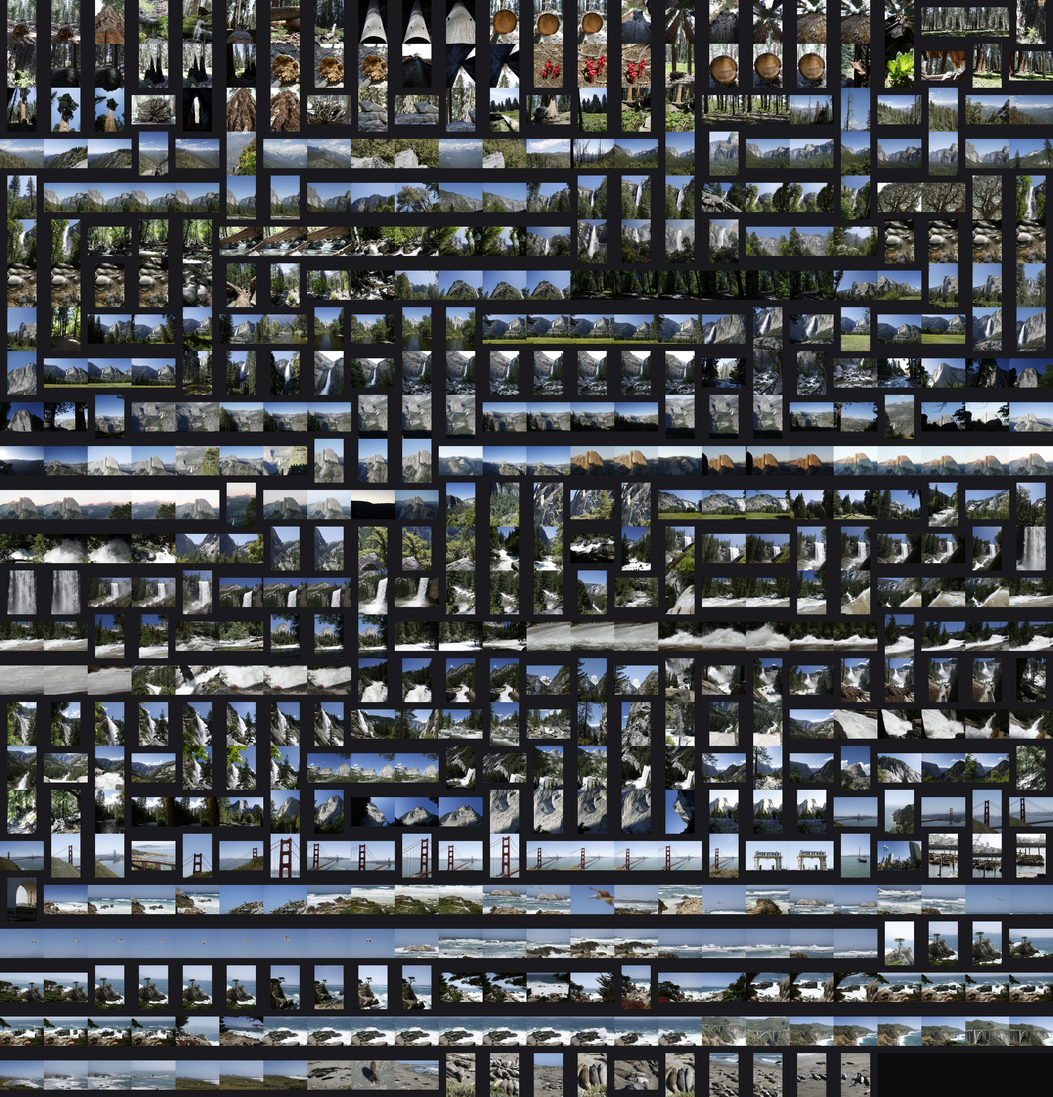
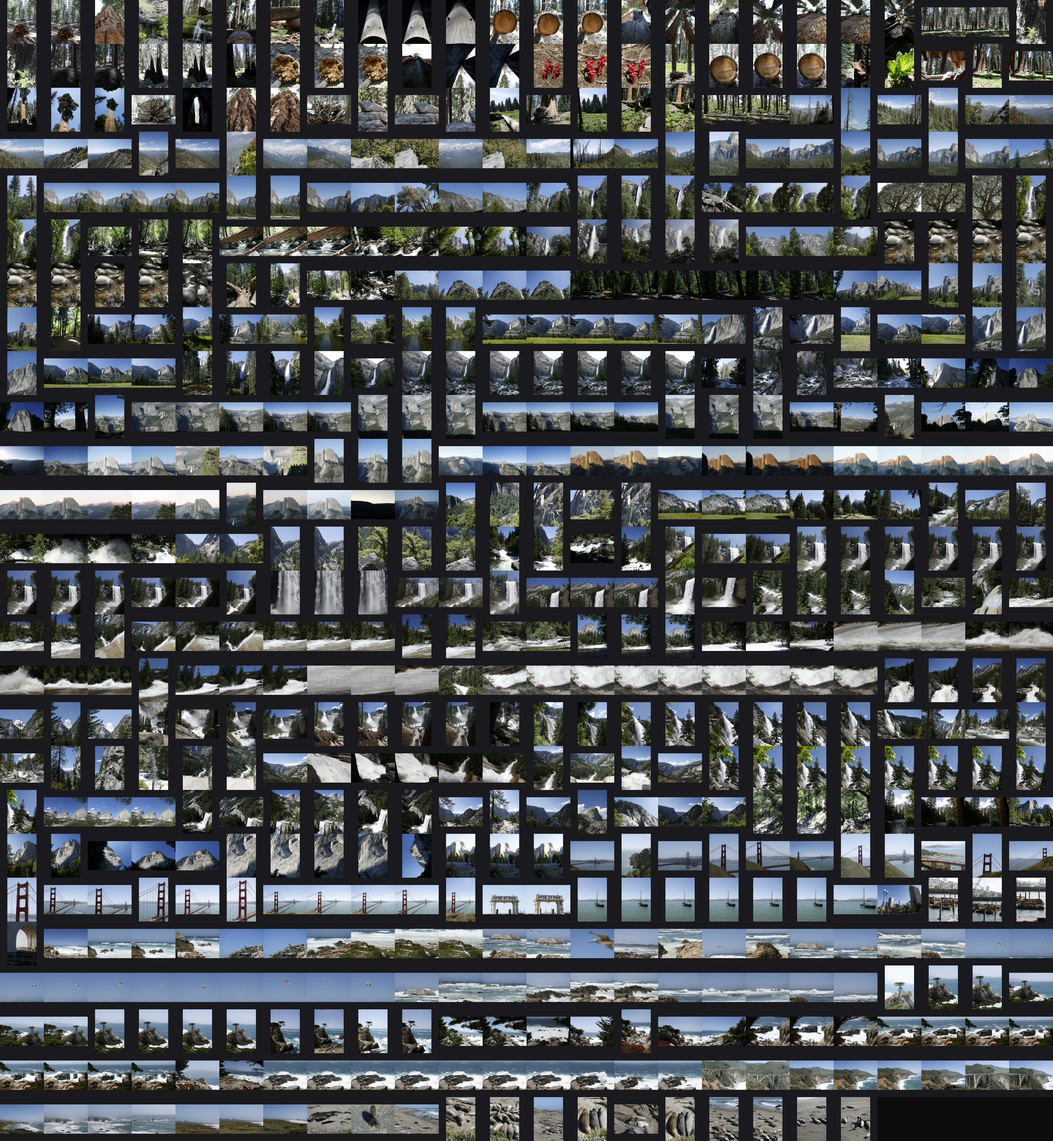
hero: bursts spread down the wall
Four rapid runs from the Mist Trail and San Francisco days (shot single-shot, so the
strict drive-mode rule left them out) are boxed as bursts, the way the app boxes a run
without a drive mode; 620 frames, eight bursts across the sequence.

Claude-Session: https://claude.ai/code/session_019pBmJhyqaQDw9pRmXDLwX9

diff --git a/docs/index.html b/docs/index.html
@@ -8,8 +8,8 @@
 <!-- Not released: removed on launch day. -->
 <meta name="robots" content="noindex">
 <link rel="icon" href="./assets/icon-64.png">
-<link rel="stylesheet" href="./assets/site.css?v=fab6df1256">
-<link rel="stylesheet" href="./assets/pages.css?v=95f49a334f">
+<link rel="stylesheet" href="./assets/site.css?v=56a1be6058">
+<link rel="stylesheet" href="./assets/pages.css?v=bed821447e">
 <link rel="preload" as="image" href="./assets/site/sheet-desk.jpg" media="(min-width: 761px)">
 <link rel="preload" as="image" href="./assets/site/sheet-phone.jpg" media="(max-width: 760px)">
 </head>
@@ -18,7 +18,7 @@
 <main id="top">
 <section class="cull" id="cull" aria-label="A week in California, culled">
   <div class="stage" id="stage">
-    <div class="sheet" id="sheet" data-cols="24" data-rows="25" aria-hidden="true"></div>
+    <div class="sheet" id="sheet" data-cols="24" data-rows="26" aria-hidden="true"></div>
     <div class="counter glass" id="counter"><span><b id="pos">5,259</b><span id="posw"> frames</span></span><span class="keeps" id="kc" hidden><b id="keeps">0</b> keeps</span><span class="favs" id="fc" hidden><b id="favs">0</b> favorites</span></div>
     <div class="invite" id="invite"><div class="line">A week in California, <em>culled in one evening.</em></div><div class="k glass"><span class="wheel"></span>Scroll to cull</div></div>
     <div class="photo" id="photo"><img src="./assets/photos/hero-1200.jpg" srcset="./assets/photos/hero-1200.jpg 1200w, ./assets/photos/hero-2400.jpg 2400w" sizes="(max-width: 760px) 200vw, 1200px" width="1200" height="800" alt="Half Dome at sunset from Glacier Point, the favorite of the shoot"></div>
@@ -81,12 +81,12 @@
   <p class="fine">Windows and Mac · one license, two computers · prices in US dollars</p>
 </div></section>
 
-<script id="seq" type="application/json">[{"n":10,"v":"r","p":7},{"n":12,"v":"r","p":9},{"n":60,"v":"r","p":57},{"n":91,"v":"r","p":88},{"n":111,"v":"k","p":108},{"n":122,"v":"k","p":119},{"n":135,"v":"k","p":132},{"n":155,"v":"k","p":152},{"n":212,"v":"k","p":209},{"n":214,"v":"r","p":211},{"n":216,"v":"r","p":213},{"n":227,"v":"r","p":224},{"n":229,"v":"r","p":226},{"n":231,"v":"r","p":228},{"n":269,"v":"r","p":266},{"n":271,"v":"k","p":268},{"n":273,"v":"r","p":270},{"n":279,"v":"r","p":276},{"n":285,"v":"r","p":282},{"n":287,"v":"r","p":284},{"n":289,"v":"r","p":286},{"n":358,"v":"r","p":355},{"n":362,"v":"r","p":359},{"n":593,"v":"r","p":590},{"n":597,"v":"r","p":594},{"n":617,"v":"r","p":614},{"n":621,"v":"k","p":618},{"n":636,"v":"r","p":633},{"n":639,"v":"k","p":636},{"n":641,"v":"r","p":638},{"n":671,"v":"k","p":668},{"n":673,"v":"r","p":670},{"n":675,"v":"r","p":672},{"n":731,"v":"k","p":728},{"n":752,"v":"k","p":749},{"n":755,"v":"r","p":752},{"n":773,"v":"r","p":770},{"n":777,"v":"r","p":774},{"n":780,"v":"r","p":777},{"n":786,"v":"r","p":783},{"n":790,"v":"k","p":787},{"n":792,"v":"r","p":789},{"n":794,"v":"r","p":791},{"n":809,"v":"r","p":806},{"n":813,"v":"r","p":810},{"n":821,"v":"k","p":818},{"n":841,"v":"r","p":838},{"n":843,"v":"r","p":840},{"n":845,"v":"r","p":842},{"n":849,"v":"k","p":846},{"n":851,"v":"r","p":848},{"n":853,"v":"r","p":850},{"n":857,"v":"k","p":854},{"n":861,"v":"r","p":858},{"n":863,"v":"k","p":860},{"n":868,"v":"r","p":865},{"n":872,"v":"r","p":869},{"n":876,"v":"r","p":873},{"n":891,"v":"r","p":888},{"n":911,"v":"r","p":908},{"n":916,"v":"r","p":913},{"n":924,"v":"r","p":921},{"n":930,"v":"r","p":927},{"n":934,"v":"r","p":931},{"n":942,"v":"r","p":939},{"n":948,"v":"r","p":945},{"n":957,"v":"r","p":954},{"n":960,"v":"r","p":957},{"n":962,"v":"r","p":959},{"n":970,"v":"r","p":967},{"n":974,"v":"r","p":971},{"n":980,"v":"r","p":977},{"n":988,"v":"k","p":985},{"n":996,"v":"r","p":993},{"n":1003,"v":"k","p":1000},{"n":1009,"v":"r","p":1006},{"n":1015,"v":"r","p":1012},{"n":1021,"v":"r","p":1018},{"n":1030,"v":"k","p":1027},{"n":1039,"v":"r","p":1036},{"n":1045,"v":"r","p":1042},{"n":1051,"v":"r","p":1048},{"n":1054,"v":"k","p":1051},{"n":1059,"v":"r","p":1056},{"n":1064,"v":"k","p":1061},{"n":1069,"v":"r","p":1066},{"n":1074,"v":"r","p":1071},{"n":1078,"v":"r","p":1075},{"n":1086,"v":"k","p":1083},{"n":1088,"v":"r","p":1085},{"n":1096,"v":"r","p":1093},{"n":1104,"v":"k","p":1101},{"n":1116,"v":"r","p":1113},{"n":1122,"v":"r","p":1119},{"n":1135,"v":"r","p":1132},{"n":1142,"v":"r","p":1139},{"n":1144,"v":"r","p":1141},{"n":1147,"v":"r","p":1144},{"n":1149,"v":"k","p":1146},{"n":1150,"v":"f","p":1147},{"n":1159,"v":"r","p":1156},{"n":1165,"v":"r","p":1162},{"n":1172,"v":"k","p":1169},{"n":1179,"v":"r","p":1176},{"n":1185,"v":"r","p":1182},{"n":1192,"v":"k","p":1189},{"n":1196,"v":"r","p":1193},{"n":1200,"v":"r","p":1197},{"n":1211,"v":"r","p":1208},{"n":1217,"v":"r","p":1214},{"n":1223,"v":"r","p":1220},{"n":1229,"v":"k","p":1226},{"n":1235,"v":"r","p":1232},{"n":1247,"v":"k","p":1244},{"n":1251,"v":"r","p":1248},{"n":1255,"v":"r","p":1252},{"n":1257,"v":"r","p":1254},{"n":1259,"v":"r","p":1256},{"n":1261,"v":"r","p":1258},{"n":1264,"v":"r","p":1261},{"n":1269,"v":"r","p":1266},{"n":1274,"v":"r","p":1271},{"n":1281,"v":"r","p":1278},{"n":1287,"v":"r","p":1284},{"n":1293,"v":"k","p":1290},{"n":1300,"v":"r","p":1297},{"n":1308,"v":"r","p":1305},{"n":1316,"v":"r","p":1313},{"n":1330,"v":"r","p":1327},{"n":1333,"v":"r","p":1330},{"n":1337,"v":"r","p":1334},{"n":1339,"v":"r","p":1336},{"n":1342,"v":"r","p":1339},{"n":1346,"v":"r","p":1343},{"n":1355,"v":"k","p":1352},{"n":1363,"v":"r","p":1360},{"n":1371,"v":"r","p":1368},{"n":1377,"v":"k","p":1374},{"n":1382,"v":"r","p":1379},{"n":1387,"v":"r","p":1384},{"n":1425,"v":"r","p":1422},{"n":1426,"v":"r","p":1423},{"n":1427,"v":"r","p":1424},{"n":1428,"v":"r","p":1425},{"n":1429,"v":"r","p":1426},{"n":1430,"v":"r","p":1427},{"n":1431,"v":"r","p":1428},{"n":1432,"v":"k","p":1429},{"n":1435,"v":"r","p":1432},{"n":1447,"v":"r","p":1444},{"n":1452,"v":"r","p":1449},{"n":1457,"v":"k","p":1454},{"n":1465,"v":"k","p":1462},{"n":1472,"v":"r","p":1469},{"n":1475,"v":"r","p":1472},{"n":1478,"v":"r","p":1475},{"n":1480,"v":"r","p":1477},{"n":1482,"v":"r","p":1479},{"n":1483,"v":"r","p":1480},{"n":1484,"v":"r","p":1481},{"n":1485,"v":"r","p":1482},{"n":1486,"v":"r","p":1483},{"n":1487,"v":"k","p":1484},{"n":1489,"v":"r","p":1486},{"n":1495,"v":"r","p":1492},{"n":1503,"v":"r","p":1500},{"n":1510,"v":"r","p":1507},{"n":1517,"v":"k","p":1514},{"n":1525,"v":"r","p":1522},{"n":1529,"v":"k","p":1526},{"n":1534,"v":"r","p":1531},{"n":1542,"v":"r","p":1539},{"n":1551,"v":"k","p":1548},{"n":1559,"v":"r","p":1556},{"n":1567,"v":"r","p":1564},{"n":1573,"v":"r","p":1570},{"n":1580,"v":"r","p":1577},{"n":1587,"v":"r","p":1584},{"n":1593,"v":"r","p":1590},{"n":1624,"v":"r","p":1621},{"n":1641,"v":"r","p":1638},{"n":1658,"v":"k","p":1655},{"n":1675,"v":"r","p":1672},{"n":1692,"v":"r","p":1689},{"n":1706,"v":"r","p":1703},{"n":1717,"v":"r","p":1714},{"n":1729,"v":"k","p":1726},{"n":1740,"v":"r","p":1737},{"n":1751,"v":"r","p":1748},{"n":1791,"v":"r","p":1788},{"n":1799,"v":"r","p":1796},{"n":1805,"v":"r","p":1802},{"n":1810,"v":"r","p":1807},{"n":1816,"v":"k","p":1813},{"n":1824,"v":"r","p":1821},{"n":1831,"v":"r","p":1828},{"n":1839,"v":"r","p":1836},{"n":1850,"v":"r","p":1847},{"n":1864,"v":"r","p":1861},{"n":1877,"v":"r","p":1874},{"n":1890,"v":"r","p":1887},{"n":1904,"v":"r","p":1901},{"n":1917,"v":"r","p":1914},{"n":1927,"v":"r","p":1924},{"n":1934,"v":"k","p":1931},{"n":1942,"v":"r","p":1939},{"n":1949,"v":"r","p":1946},{"n":1956,"v":"r","p":1953},{"n":1965,"v":"k","p":1962},{"n":1972,"v":"r","p":1969},{"n":1978,"v":"r","p":1975},{"n":1983,"v":"r","p":1980},{"n":1987,"v":"k","p":1984},{"n":1991,"v":"r","p":1988},{"n":1995,"v":"r","p":1992},{"n":1999,"v":"r","p":1996},{"n":2003,"v":"k","p":2000},{"n":2009,"v":"r","p":2006},{"n":2016,"v":"r","p":2013},{"n":2024,"v":"k","p":2021},{"n":2032,"v":"r","p":2029},{"n":2040,"v":"k","p":2037},{"n":2049,"v":"r","p":2046},{"n":2058,"v":"r","p":2055},{"n":2067,"v":"r","p":2064},{"n":2075,"v":"r","p":2072},{"n":2083,"v":"r","p":2080},{"n":2092,"v":"r","p":2089},{"n":2102,"v":"r","p":2099},{"n":2113,"v":"k","p":2110},{"n":2123,"v":"r","p":2120},{"n":2133,"v":"r","p":2130},{"n":2143,"v":"r","p":2140},{"n":2152,"v":"r","p":2149},{"n":2162,"v":"r","p":2159},{"n":2174,"v":"r","p":2171},{"n":2185,"v":"r","p":2182},{"n":2236,"v":"r","p":2233},{"n":2242,"v":"r","p":2239},{"n":2248,"v":"r","p":2245},{"n":2252,"v":"r","p":2249},{"n":2257,"v":"r","p":2254},{"n":2261,"v":"r","p":2258},{"n":2265,"v":"r","p":2262},{"n":2269,"v":"r","p":2266},{"n":2275,"v":"r","p":2272},{"n":2281,"v":"r","p":2278},{"n":2286,"v":"r","p":2283},{"n":2292,"v":"r","p":2289},{"n":2297,"v":"r","p":2294},{"n":2303,"v":"r","p":2300},{"n":2309,"v":"r","p":2306},{"n":2315,"v":"r","p":2312},{"n":2356,"v":"k","p":2353},{"n":2358,"v":"r","p":2355},{"n":2360,"v":"r","p":2357},{"n":2362,"v":"r","p":2359},{"n":2363,"v":"r","p":2360},{"n":2365,"v":"f","p":2362},{"n":2366,"v":"r","p":2363},{"n":2367,"v":"r","p":2364},{"n":2368,"v":"r","p":2365},{"n":2370,"v":"r","p":2367},{"n":2373,"v":"r","p":2370},{"n":2377,"v":"r","p":2374},{"n":2381,"v":"r","p":2378},{"n":2386,"v":"r","p":2383},{"n":2388,"v":"r","p":2385},{"n":2390,"v":"r","p":2387},{"n":2396,"v":"r","p":2393},{"n":2404,"v":"k","p":2401},{"n":2414,"v":"r","p":2411},{"n":2418,"v":"r","p":2415},{"n":2422,"v":"r","p":2419},{"n":2428,"v":"r","p":2425},{"n":2432,"v":"k","p":2429},{"n":2437,"v":"r","p":2434},{"n":2443,"v":"r","p":2440},{"n":2449,"v":"r","p":2446},{"n":2454,"v":"r","p":2451},{"n":2458,"v":"r","p":2455},{"n":2462,"v":"r","p":2459},{"n":2467,"v":"r","p":2464},{"n":2473,"v":"r","p":2470},{"n":2480,"v":"k","p":2477},{"n":2490,"v":"r","p":2487},{"n":2497,"v":"r","p":2494},{"n":2501,"v":"r","p":2498},{"n":2504,"v":"k","p":2501},{"n":2508,"v":"r","p":2505},{"n":2511,"v":"r","p":2508},{"n":2518,"v":"r","p":2515},{"n":2527,"v":"r","p":2524},{"n":2537,"v":"r","p":2534},{"n":2547,"v":"k","p":2544},{"n":2557,"v":"r","p":2554},{"n":2565,"v":"k","p":2562},{"n":2573,"v":"r","p":2570},{"n":2580,"v":"r","p":2577},{"n":2605,"v":"r","p":2602},{"n":2616,"v":"r","p":2613},{"n":2627,"v":"r","p":2624},{"n":2638,"v":"r","p":2635},{"n":2647,"v":"r","p":2644},{"n":2653,"v":"r","p":2650},{"n":2659,"v":"r","p":2656},{"n":2666,"v":"r","p":2663},{"n":2676,"v":"r","p":2673},{"n":2685,"v":"r","p":2682},{"n":2694,"v":"r","p":2691},{"n":2704,"v":"k","p":2701},{"n":2715,"v":"k","p":2712},{"n":2730,"v":"k","p":2727},{"n":2732,"v":"r","p":2729},{"n":2739,"v":"r","p":2736},{"n":2747,"v":"r","p":2744},{"n":2755,"v":"r","p":2752},{"n":2763,"v":"r","p":2760},{"n":2767,"v":"r","p":2764},{"n":2770,"v":"f","p":2767},{"n":2772,"v":"r","p":2769},{"n":2776,"v":"r","p":2773},{"n":2783,"v":"r","p":2780},{"n":2789,"v":"r","p":2786},{"n":2795,"v":"r","p":2792},{"n":2802,"v":"r","p":2799},{"n":2809,"v":"r","p":2806},{"n":2815,"v":"r","p":2812},{"n":2822,"v":"r","p":2819},{"n":2830,"v":"r","p":2827},{"n":2838,"v":"k","p":2835},{"n":2848,"v":"r","p":2845},{"n":2858,"v":"r","p":2855},{"n":2868,"v":"k","p":2865},{"n":2878,"v":"r","p":2875},{"n":2887,"v":"r","p":2884},{"n":2893,"v":"r","p":2890},{"n":2899,"v":"k","p":2896},{"n":2908,"v":"r","p":2905},{"n":2920,"v":"k","p":2917},{"n":2931,"v":"r","p":2928},{"n":2943,"v":"r","p":2940},{"n":2958,"v":"r","p":2955},{"n":2964,"v":"k","p":2961},{"n":2969,"v":"r","p":2966},{"n":2974,"v":"r","p":2971},{"n":2980,"v":"r","p":2977},{"n":2985,"v":"k","p":2982},{"n":2991,"v":"r","p":2988},{"n":2997,"v":"r","p":2994},{"n":3003,"v":"r","p":3000},{"n":3014,"v":"r","p":3011},{"n":3020,"v":"k","p":3017},{"n":3023,"v":"r","p":3020},{"n":3031,"v":"r","p":3028},{"n":3040,"v":"r","p":3037},{"n":3049,"v":"r","p":3046},{"n":3058,"v":"r","p":3055},{"n":3067,"v":"k","p":3064},{"n":3076,"v":"r","p":3073},{"n":3087,"v":"k","p":3084},{"n":3090,"v":"r","p":3087},{"n":3101,"v":"r","p":3098},{"n":3125,"v":"k","p":3122},{"n":3134,"v":"k","p":3131},{"n":3140,"v":"r","p":3137},{"n":3146,"v":"r","p":3143},{"n":3152,"v":"r","p":3149},{"n":3161,"v":"r","p":3158},{"n":3171,"v":"r","p":3168},{"n":3181,"v":"k","p":3178},{"n":3191,"v":"r","p":3188},{"n":3198,"v":"r","p":3195},{"n":3204,"v":"r","p":3201},{"n":3210,"v":"r","p":3207},{"n":3220,"v":"r","p":3217},{"n":3233,"v":"r","p":3230},{"n":3249,"v":"r","p":3246},{"n":3265,"v":"r","p":3262},{"n":3280,"v":"r","p":3277},{"n":3296,"v":"r","p":3293},{"n":3315,"v":"r","p":3312},{"n":3325,"v":"r","p":3322},{"n":3335,"v":"r","p":3332},{"n":3344,"v":"r","p":3341},{"n":3352,"v":"r","p":3349},{"n":3360,"v":"r","p":3357},{"n":3369,"v":"r","p":3366},{"n":3380,"v":"r","p":3377},{"n":3392,"v":"r","p":3389},{"n":3401,"v":"k","p":3398},{"n":3403,"v":"k","p":3400},{"n":3414,"v":"r","p":3411},{"n":3424,"v":"k","p":3421},{"n":3435,"v":"r","p":3432},{"n":3442,"v":"r","p":3439},{"n":3449,"v":"r","p":3446},{"n":3456,"v":"r","p":3453},{"n":3460,"v":"k","p":3457},{"n":3464,"v":"r","p":3461},{"n":3469,"v":"r","p":3466},{"n":3474,"v":"r","p":3471},{"n":3478,"v":"k","p":3475},{"n":3481,"v":"r","p":3478},{"n":3487,"v":"k","p":3484},{"n":3493,"v":"r","p":3490},{"n":3502,"v":"r","p":3499},{"n":3514,"v":"r","p":3511},{"n":3527,"v":"r","p":3524},{"n":3539,"v":"r","p":3536},{"n":3551,"v":"r","p":3548},{"n":3561,"v":"k","p":3558},{"n":3566,"v":"r","p":3563},{"n":3571,"v":"r","p":3568},{"n":3576,"v":"r","p":3573},{"n":3580,"v":"r","p":3577},{"n":3582,"v":"f","p":3579},{"n":3584,"v":"r","p":3581},{"n":3592,"v":"r","p":3589},{"n":3604,"v":"r","p":3601},{"n":3617,"v":"r","p":3614},{"n":3629,"v":"r","p":3626},{"n":3642,"v":"r","p":3639},{"n":3654,"v":"r","p":3651},{"n":3678,"v":"r","p":3675},{"n":3683,"v":"r","p":3680},{"n":3687,"v":"k","p":3684},{"n":3691,"v":"f","p":3688},{"n":3696,"v":"r","p":3693},{"n":3702,"v":"r","p":3699},{"n":3708,"v":"r","p":3705},{"n":3714,"v":"r","p":3711},{"n":3719,"v":"r","p":3716},{"n":3723,"v":"r","p":3720},{"n":3729,"v":"r","p":3726},{"n":3735,"v":"r","p":3732},{"n":3741,"v":"k","p":3738},{"n":3746,"v":"r","p":3743},{"n":3751,"v":"r","p":3748},{"n":3756,"v":"r","p":3753},{"n":3763,"v":"r","p":3760},{"n":3765,"v":"r","p":3762},{"n":3772,"v":"r","p":3769},{"n":3785,"v":"r","p":3782},{"n":3790,"v":"k","p":3787},{"n":3802,"v":"k","p":3799},{"n":3818,"v":"r","p":3815},{"n":3835,"v":"r","p":3832},{"n":3848,"v":"k","p":3845},{"n":3850,"v":"r","p":3847},{"n":3855,"v":"r","p":3852},{"n":3863,"v":"k","p":3860},{"n":3871,"v":"k","p":3868},{"n":3876,"v":"r","p":3873},{"n":3880,"v":"r","p":3877},{"n":3884,"v":"r","p":3881},{"n":3892,"v":"r","p":3889},{"n":3900,"v":"k","p":3897},{"n":3907,"v":"r","p":3904},{"n":3916,"v":"k","p":3913},{"n":3920,"v":"r","p":3917},{"n":3924,"v":"r","p":3921},{"n":3928,"v":"r","p":3925},{"n":3933,"v":"r","p":3930},{"n":3939,"v":"r","p":3936},{"n":3945,"v":"r","p":3942},{"n":3951,"v":"r","p":3948},{"n":3957,"v":"r","p":3954},{"n":3966,"v":"r","p":3963},{"n":3978,"v":"r","p":3975},{"n":3989,"v":"r","p":3986},{"n":3990,"v":"f","p":3987},{"n":4001,"v":"r","p":3998},{"n":4009,"v":"r","p":4006},{"n":4013,"v":"r","p":4010},{"n":4020,"v":"r","p":4017},{"n":4087,"v":"r","p":4084},{"n":4094,"v":"r","p":4091},{"n":4101,"v":"r","p":4098},{"n":4107,"v":"r","p":4104},{"n":4121,"v":"r","p":4118},{"n":4129,"v":"k","p":4126},{"n":4136,"v":"r","p":4133},{"n":4142,"v":"r","p":4139},{"n":4158,"v":"r","p":4155},{"n":4165,"v":"r","p":4162},{"n":4171,"v":"r","p":4168},{"n":4177,"v":"r","p":4174},{"n":4183,"v":"r","p":4180},{"n":4189,"v":"r","p":4186},{"n":4195,"v":"r","p":4192},{"n":4202,"v":"r","p":4199},{"n":4209,"v":"r","p":4206},{"n":4215,"v":"r","p":4212},{"n":4219,"v":"r","p":4216},{"n":4227,"v":"r","p":4224},{"n":4237,"v":"k","p":4234},{"n":4246,"v":"r","p":4243},{"n":4253,"v":"r","p":4250},{"n":4259,"v":"r","p":4256},{"n":4268,"v":"r","p":4265},{"n":4278,"v":"r","p":4275},{"n":4288,"v":"r","p":4285},{"n":4289,"v":"r","p":4286},{"n":4290,"v":"r","p":4287},{"n":4291,"v":"r","p":4288},{"n":4292,"v":"f","p":4289},{"n":4293,"v":"r","p":4290},{"n":4294,"v":"r","p":4291},{"n":4295,"v":"r","p":4292},{"n":4296,"v":"k","p":4293},{"n":4297,"v":"r","p":4294},{"n":4298,"v":"r","p":4295},{"n":4314,"v":"r","p":4311},{"n":4323,"v":"r","p":4320},{"n":4331,"v":"r","p":4328},{"n":4361,"v":"r","p":4358},{"n":4373,"v":"r","p":4370},{"n":4385,"v":"r","p":4382},{"n":4397,"v":"r","p":4394},{"n":4411,"v":"r","p":4408},{"n":4424,"v":"r","p":4421},{"n":4437,"v":"k","p":4434},{"n":4451,"v":"r","p":4448},{"n":4483,"v":"r","p":4480},{"n":4490,"v":"r","p":4487},{"n":4496,"v":"r","p":4493},{"n":4504,"v":"r","p":4501},{"n":4514,"v":"r","p":4511},{"n":4523,"v":"r","p":4520},{"n":4530,"v":"f","p":4527},{"n":4534,"v":"r","p":4531},{"n":4540,"v":"k","p":4537},{"n":4548,"v":"r","p":4545},{"n":4556,"v":"r","p":4553},{"n":4563,"v":"r","p":4560},{"n":4583,"v":"r","p":4580},{"n":4603,"v":"r","p":4600},{"n":4620,"v":"r","p":4617},{"n":4633,"v":"r","p":4630},{"n":4645,"v":"r","p":4642},{"n":4656,"v":"k","p":4653},{"n":4665,"v":"r","p":4662},{"n":4674,"v":"r","p":4671},{"n":4690,"v":"r","p":4687},{"n":4706,"v":"r","p":4703},{"n":4716,"v":"r","p":4713},{"n":4726,"v":"r","p":4723},{"n":4741,"v":"r","p":4738},{"n":4759,"v":"r","p":4756},{"n":4777,"v":"k","p":4774},{"n":4795,"v":"r","p":4792},{"n":4814,"v":"r","p":4811},{"n":4834,"v":"k","p":4831},{"n":4854,"v":"r","p":4851},{"n":4874,"v":"r","p":4871},{"n":4894,"v":"r","p":4891},{"n":4908,"v":"k","p":4905},{"n":4912,"v":"r","p":4909},{"n":4913,"v":"r","p":4910},{"n":4914,"v":"r","p":4911},{"n":4915,"v":"r","p":4912},{"n":4916,"v":"r","p":4913},{"n":4917,"v":"k","p":4914},{"n":4918,"v":"r","p":4915},{"n":4922,"v":"r","p":4919},{"n":4930,"v":"r","p":4927},{"n":4938,"v":"r","p":4935},{"n":4955,"v":"k","p":4952},{"n":4964,"v":"r","p":4961},{"n":4973,"v":"r","p":4970},{"n":4987,"v":"r","p":4984},{"n":5001,"v":"r","p":4998},{"n":5012,"v":"r","p":5009},{"n":5015,"v":"k","p":5012},{"n":5023,"v":"r","p":5020},{"n":5034,"v":"r","p":5031},{"n":5044,"v":"r","p":5041},{"n":5054,"v":"k","p":5051},{"n":5064,"v":"r","p":5061},{"n":5075,"v":"r","p":5072},{"n":5087,"v":"r","p":5084},{"n":5099,"v":"r","p":5096},{"n":5110,"v":"k","p":5107},{"n":5123,"v":"r","p":5120},{"n":5141,"v":"r","p":5138},{"n":5152,"v":"r","p":5149},{"n":5164,"v":"r","p":5161},{"n":5176,"v":"k","p":5173},{"n":5186,"v":"r","p":5183},{"n":5197,"v":"f","p":5194},{"n":5207,"v":"r","p":5204},{"n":5219,"v":"r","p":5216},{"n":5232,"v":"r","p":5229},{"n":5244,"v":"k","p":5241},{"n":5256,"v":"r","p":5253}]</script>
-<script id="sets" type="application/json">[{"start":8,"len":2},{"start":12,"len":2},{"start":21,"len":2},{"start":27,"len":2},{"start":31,"len":2},{"start":64,"len":2},{"start":97,"len":4},{"start":101,"len":2},{"start":113,"len":2},{"start":125,"len":2},{"start":130,"len":2},{"start":140,"len":8},{"start":154,"len":2},{"start":165,"len":2},{"start":179,"len":3},{"start":203,"len":5},{"start":222,"len":2},{"start":224,"len":3},{"start":228,"len":2},{"start":242,"len":2},{"start":253,"len":2},{"start":256,"len":3},{"start":260,"len":3},{"start":263,"len":3},{"start":276,"len":3},{"start":280,"len":2},{"start":294,"len":2},{"start":308,"len":2},{"start":318,"len":2},{"start":328,"len":2},{"start":335,"len":3},{"start":343,"len":2},{"start":345,"len":2},{"start":354,"len":2},{"start":365,"len":2},{"start":370,"len":2},{"start":381,"len":2},{"start":390,"len":2},{"start":400,"len":2},{"start":415,"len":3},{"start":420,"len":2},{"start":435,"len":2},{"start":448,"len":3},{"start":468,"len":4},{"start":473,"len":2},{"start":485,"len":2},{"start":528,"len":2},{"start":530,"len":4},{"start":538,"len":2},{"start":545,"len":2},{"start":548,"len":8},{"start":558,"len":10}]</script>
-<script id="bursts" type="application/json">[{"start":140,"len":8},{"start":157,"len":6},{"start":502,"len":11},{"start":558,"len":7}]</script>
+<script id="seq" type="application/json">[{"n":10,"v":"r","p":7},{"n":12,"v":"r","p":9},{"n":60,"v":"r","p":57},{"n":91,"v":"r","p":88},{"n":111,"v":"k","p":108},{"n":122,"v":"k","p":119},{"n":135,"v":"k","p":132},{"n":155,"v":"k","p":152},{"n":212,"v":"k","p":209},{"n":214,"v":"r","p":211},{"n":216,"v":"r","p":213},{"n":227,"v":"r","p":224},{"n":229,"v":"r","p":226},{"n":231,"v":"r","p":228},{"n":269,"v":"r","p":266},{"n":271,"v":"k","p":268},{"n":273,"v":"r","p":270},{"n":279,"v":"r","p":276},{"n":285,"v":"r","p":282},{"n":287,"v":"r","p":284},{"n":289,"v":"r","p":286},{"n":358,"v":"r","p":355},{"n":362,"v":"r","p":359},{"n":593,"v":"r","p":590},{"n":597,"v":"r","p":594},{"n":617,"v":"r","p":614},{"n":621,"v":"k","p":618},{"n":636,"v":"r","p":633},{"n":639,"v":"k","p":636},{"n":641,"v":"r","p":638},{"n":671,"v":"k","p":668},{"n":673,"v":"r","p":670},{"n":675,"v":"r","p":672},{"n":731,"v":"k","p":728},{"n":752,"v":"k","p":749},{"n":755,"v":"r","p":752},{"n":773,"v":"r","p":770},{"n":777,"v":"r","p":774},{"n":780,"v":"r","p":777},{"n":786,"v":"r","p":783},{"n":790,"v":"k","p":787},{"n":792,"v":"r","p":789},{"n":794,"v":"r","p":791},{"n":809,"v":"r","p":806},{"n":813,"v":"r","p":810},{"n":821,"v":"k","p":818},{"n":841,"v":"r","p":838},{"n":843,"v":"r","p":840},{"n":845,"v":"r","p":842},{"n":849,"v":"k","p":846},{"n":851,"v":"r","p":848},{"n":853,"v":"r","p":850},{"n":857,"v":"k","p":854},{"n":861,"v":"r","p":858},{"n":863,"v":"k","p":860},{"n":868,"v":"r","p":865},{"n":872,"v":"r","p":869},{"n":876,"v":"r","p":873},{"n":891,"v":"r","p":888},{"n":911,"v":"r","p":908},{"n":916,"v":"r","p":913},{"n":924,"v":"r","p":921},{"n":930,"v":"r","p":927},{"n":934,"v":"r","p":931},{"n":942,"v":"r","p":939},{"n":948,"v":"r","p":945},{"n":957,"v":"r","p":954},{"n":960,"v":"r","p":957},{"n":962,"v":"r","p":959},{"n":970,"v":"r","p":967},{"n":974,"v":"r","p":971},{"n":980,"v":"r","p":977},{"n":988,"v":"k","p":985},{"n":996,"v":"r","p":993},{"n":1003,"v":"k","p":1000},{"n":1009,"v":"r","p":1006},{"n":1015,"v":"r","p":1012},{"n":1021,"v":"r","p":1018},{"n":1030,"v":"k","p":1027},{"n":1039,"v":"r","p":1036},{"n":1045,"v":"r","p":1042},{"n":1051,"v":"r","p":1048},{"n":1054,"v":"k","p":1051},{"n":1059,"v":"r","p":1056},{"n":1064,"v":"k","p":1061},{"n":1069,"v":"r","p":1066},{"n":1074,"v":"r","p":1071},{"n":1078,"v":"r","p":1075},{"n":1086,"v":"k","p":1083},{"n":1088,"v":"r","p":1085},{"n":1096,"v":"r","p":1093},{"n":1104,"v":"k","p":1101},{"n":1116,"v":"r","p":1113},{"n":1122,"v":"r","p":1119},{"n":1135,"v":"r","p":1132},{"n":1142,"v":"r","p":1139},{"n":1144,"v":"r","p":1141},{"n":1147,"v":"r","p":1144},{"n":1149,"v":"k","p":1146},{"n":1150,"v":"f","p":1147},{"n":1159,"v":"r","p":1156},{"n":1165,"v":"r","p":1162},{"n":1172,"v":"k","p":1169},{"n":1179,"v":"r","p":1176},{"n":1185,"v":"r","p":1182},{"n":1192,"v":"k","p":1189},{"n":1196,"v":"r","p":1193},{"n":1200,"v":"r","p":1197},{"n":1211,"v":"r","p":1208},{"n":1217,"v":"r","p":1214},{"n":1223,"v":"r","p":1220},{"n":1229,"v":"k","p":1226},{"n":1235,"v":"r","p":1232},{"n":1247,"v":"k","p":1244},{"n":1251,"v":"r","p":1248},{"n":1255,"v":"r","p":1252},{"n":1257,"v":"r","p":1254},{"n":1259,"v":"r","p":1256},{"n":1261,"v":"r","p":1258},{"n":1264,"v":"r","p":1261},{"n":1269,"v":"r","p":1266},{"n":1274,"v":"r","p":1271},{"n":1281,"v":"r","p":1278},{"n":1287,"v":"r","p":1284},{"n":1293,"v":"k","p":1290},{"n":1300,"v":"r","p":1297},{"n":1308,"v":"r","p":1305},{"n":1316,"v":"r","p":1313},{"n":1330,"v":"r","p":1327},{"n":1333,"v":"r","p":1330},{"n":1337,"v":"r","p":1334},{"n":1339,"v":"r","p":1336},{"n":1342,"v":"r","p":1339},{"n":1346,"v":"r","p":1343},{"n":1355,"v":"k","p":1352},{"n":1363,"v":"r","p":1360},{"n":1371,"v":"r","p":1368},{"n":1377,"v":"k","p":1374},{"n":1382,"v":"r","p":1379},{"n":1387,"v":"r","p":1384},{"n":1425,"v":"r","p":1422},{"n":1426,"v":"r","p":1423},{"n":1427,"v":"r","p":1424},{"n":1428,"v":"r","p":1425},{"n":1429,"v":"r","p":1426},{"n":1430,"v":"r","p":1427},{"n":1431,"v":"r","p":1428},{"n":1432,"v":"k","p":1429},{"n":1435,"v":"r","p":1432},{"n":1447,"v":"r","p":1444},{"n":1452,"v":"r","p":1449},{"n":1457,"v":"k","p":1454},{"n":1465,"v":"k","p":1462},{"n":1472,"v":"r","p":1469},{"n":1475,"v":"r","p":1472},{"n":1478,"v":"r","p":1475},{"n":1480,"v":"r","p":1477},{"n":1482,"v":"r","p":1479},{"n":1483,"v":"r","p":1480},{"n":1484,"v":"r","p":1481},{"n":1485,"v":"r","p":1482},{"n":1486,"v":"r","p":1483},{"n":1487,"v":"k","p":1484},{"n":1489,"v":"r","p":1486},{"n":1495,"v":"r","p":1492},{"n":1503,"v":"r","p":1500},{"n":1510,"v":"r","p":1507},{"n":1517,"v":"k","p":1514},{"n":1525,"v":"r","p":1522},{"n":1529,"v":"k","p":1526},{"n":1534,"v":"r","p":1531},{"n":1542,"v":"r","p":1539},{"n":1551,"v":"k","p":1548},{"n":1559,"v":"r","p":1556},{"n":1567,"v":"r","p":1564},{"n":1573,"v":"r","p":1570},{"n":1580,"v":"r","p":1577},{"n":1587,"v":"r","p":1584},{"n":1593,"v":"r","p":1590},{"n":1624,"v":"r","p":1621},{"n":1641,"v":"r","p":1638},{"n":1658,"v":"k","p":1655},{"n":1675,"v":"r","p":1672},{"n":1692,"v":"r","p":1689},{"n":1706,"v":"r","p":1703},{"n":1717,"v":"r","p":1714},{"n":1729,"v":"k","p":1726},{"n":1740,"v":"r","p":1737},{"n":1751,"v":"r","p":1748},{"n":1791,"v":"r","p":1788},{"n":1799,"v":"r","p":1796},{"n":1805,"v":"r","p":1802},{"n":1810,"v":"r","p":1807},{"n":1816,"v":"k","p":1813},{"n":1824,"v":"r","p":1821},{"n":1831,"v":"r","p":1828},{"n":1839,"v":"r","p":1836},{"n":1850,"v":"r","p":1847},{"n":1864,"v":"r","p":1861},{"n":1877,"v":"r","p":1874},{"n":1890,"v":"r","p":1887},{"n":1904,"v":"r","p":1901},{"n":1917,"v":"r","p":1914},{"n":1927,"v":"r","p":1924},{"n":1934,"v":"k","p":1931},{"n":1942,"v":"r","p":1939},{"n":1949,"v":"r","p":1946},{"n":1956,"v":"r","p":1953},{"n":1965,"v":"k","p":1962},{"n":1972,"v":"r","p":1969},{"n":1978,"v":"r","p":1975},{"n":1983,"v":"r","p":1980},{"n":1987,"v":"k","p":1984},{"n":1991,"v":"r","p":1988},{"n":1995,"v":"r","p":1992},{"n":1999,"v":"r","p":1996},{"n":2003,"v":"k","p":2000},{"n":2009,"v":"r","p":2006},{"n":2016,"v":"r","p":2013},{"n":2024,"v":"k","p":2021},{"n":2032,"v":"r","p":2029},{"n":2040,"v":"k","p":2037},{"n":2049,"v":"r","p":2046},{"n":2058,"v":"r","p":2055},{"n":2067,"v":"r","p":2064},{"n":2075,"v":"r","p":2072},{"n":2083,"v":"r","p":2080},{"n":2092,"v":"r","p":2089},{"n":2102,"v":"r","p":2099},{"n":2113,"v":"k","p":2110},{"n":2123,"v":"r","p":2120},{"n":2133,"v":"r","p":2130},{"n":2143,"v":"r","p":2140},{"n":2152,"v":"r","p":2149},{"n":2162,"v":"r","p":2159},{"n":2174,"v":"r","p":2171},{"n":2185,"v":"r","p":2182},{"n":2236,"v":"r","p":2233},{"n":2242,"v":"r","p":2239},{"n":2248,"v":"r","p":2245},{"n":2252,"v":"r","p":2249},{"n":2257,"v":"r","p":2254},{"n":2261,"v":"r","p":2258},{"n":2265,"v":"r","p":2262},{"n":2269,"v":"r","p":2266},{"n":2275,"v":"r","p":2272},{"n":2281,"v":"r","p":2278},{"n":2286,"v":"r","p":2283},{"n":2292,"v":"r","p":2289},{"n":2297,"v":"r","p":2294},{"n":2303,"v":"r","p":2300},{"n":2309,"v":"r","p":2306},{"n":2315,"v":"r","p":2312},{"n":2356,"v":"k","p":2353},{"n":2358,"v":"r","p":2355},{"n":2360,"v":"r","p":2357},{"n":2362,"v":"r","p":2359},{"n":2363,"v":"r","p":2360},{"n":2365,"v":"f","p":2362},{"n":2366,"v":"r","p":2363},{"n":2367,"v":"r","p":2364},{"n":2368,"v":"r","p":2365},{"n":2370,"v":"r","p":2367},{"n":2373,"v":"r","p":2370},{"n":2377,"v":"r","p":2374},{"n":2381,"v":"r","p":2378},{"n":2386,"v":"r","p":2383},{"n":2388,"v":"r","p":2385},{"n":2390,"v":"r","p":2387},{"n":2396,"v":"r","p":2393},{"n":2404,"v":"k","p":2401},{"n":2414,"v":"r","p":2411},{"n":2418,"v":"r","p":2415},{"n":2422,"v":"r","p":2419},{"n":2428,"v":"r","p":2425},{"n":2432,"v":"k","p":2429},{"n":2437,"v":"r","p":2434},{"n":2443,"v":"r","p":2440},{"n":2449,"v":"r","p":2446},{"n":2454,"v":"r","p":2451},{"n":2458,"v":"r","p":2455},{"n":2462,"v":"r","p":2459},{"n":2467,"v":"r","p":2464},{"n":2473,"v":"r","p":2470},{"n":2480,"v":"k","p":2477},{"n":2490,"v":"r","p":2487},{"n":2497,"v":"r","p":2494},{"n":2501,"v":"r","p":2498},{"n":2504,"v":"k","p":2501},{"n":2508,"v":"r","p":2505},{"n":2511,"v":"r","p":2508},{"n":2518,"v":"r","p":2515},{"n":2527,"v":"r","p":2524},{"n":2537,"v":"r","p":2534},{"n":2547,"v":"k","p":2544},{"n":2557,"v":"r","p":2554},{"n":2565,"v":"k","p":2562},{"n":2573,"v":"r","p":2570},{"n":2580,"v":"r","p":2577},{"n":2605,"v":"r","p":2602},{"n":2616,"v":"r","p":2613},{"n":2627,"v":"r","p":2624},{"n":2638,"v":"r","p":2635},{"n":2647,"v":"r","p":2644},{"n":2653,"v":"r","p":2650},{"n":2659,"v":"r","p":2656},{"n":2666,"v":"r","p":2663},{"n":2671,"v":"r","p":2668},{"n":2672,"v":"r","p":2669},{"n":2673,"v":"k","p":2670},{"n":2674,"v":"r","p":2671},{"n":2675,"v":"r","p":2672},{"n":2676,"v":"r","p":2673},{"n":2677,"v":"r","p":2674},{"n":2678,"v":"r","p":2675},{"n":2684,"v":"r","p":2681},{"n":2694,"v":"r","p":2691},{"n":2704,"v":"r","p":2701},{"n":2715,"v":"k","p":2712},{"n":2730,"v":"k","p":2727},{"n":2732,"v":"r","p":2729},{"n":2739,"v":"r","p":2736},{"n":2747,"v":"r","p":2744},{"n":2755,"v":"r","p":2752},{"n":2763,"v":"r","p":2760},{"n":2767,"v":"r","p":2764},{"n":2770,"v":"f","p":2767},{"n":2772,"v":"r","p":2769},{"n":2776,"v":"r","p":2773},{"n":2783,"v":"r","p":2780},{"n":2789,"v":"r","p":2786},{"n":2795,"v":"r","p":2792},{"n":2802,"v":"r","p":2799},{"n":2809,"v":"r","p":2806},{"n":2815,"v":"r","p":2812},{"n":2822,"v":"r","p":2819},{"n":2830,"v":"r","p":2827},{"n":2838,"v":"k","p":2835},{"n":2848,"v":"r","p":2845},{"n":2858,"v":"r","p":2855},{"n":2868,"v":"k","p":2865},{"n":2878,"v":"r","p":2875},{"n":2887,"v":"r","p":2884},{"n":2893,"v":"r","p":2890},{"n":2899,"v":"k","p":2896},{"n":2908,"v":"r","p":2905},{"n":2920,"v":"k","p":2917},{"n":2931,"v":"r","p":2928},{"n":2943,"v":"r","p":2940},{"n":2958,"v":"r","p":2955},{"n":2964,"v":"k","p":2961},{"n":2969,"v":"r","p":2966},{"n":2974,"v":"r","p":2971},{"n":2980,"v":"r","p":2977},{"n":2985,"v":"k","p":2982},{"n":2991,"v":"r","p":2988},{"n":2997,"v":"r","p":2994},{"n":3003,"v":"r","p":3000},{"n":3014,"v":"r","p":3011},{"n":3020,"v":"k","p":3017},{"n":3023,"v":"r","p":3020},{"n":3031,"v":"r","p":3028},{"n":3040,"v":"r","p":3037},{"n":3049,"v":"r","p":3046},{"n":3058,"v":"r","p":3055},{"n":3067,"v":"k","p":3064},{"n":3076,"v":"r","p":3073},{"n":3087,"v":"k","p":3084},{"n":3090,"v":"r","p":3087},{"n":3101,"v":"r","p":3098},{"n":3125,"v":"k","p":3122},{"n":3135,"v":"r","p":3132},{"n":3139,"v":"r","p":3136},{"n":3140,"v":"r","p":3137},{"n":3141,"v":"r","p":3138},{"n":3142,"v":"k","p":3139},{"n":3143,"v":"r","p":3140},{"n":3144,"v":"r","p":3141},{"n":3147,"v":"k","p":3144},{"n":3153,"v":"r","p":3150},{"n":3161,"v":"r","p":3158},{"n":3171,"v":"r","p":3168},{"n":3181,"v":"k","p":3178},{"n":3191,"v":"r","p":3188},{"n":3198,"v":"r","p":3195},{"n":3204,"v":"r","p":3201},{"n":3210,"v":"r","p":3207},{"n":3220,"v":"r","p":3217},{"n":3233,"v":"r","p":3230},{"n":3249,"v":"r","p":3246},{"n":3265,"v":"r","p":3262},{"n":3280,"v":"r","p":3277},{"n":3296,"v":"r","p":3293},{"n":3315,"v":"r","p":3312},{"n":3325,"v":"r","p":3322},{"n":3335,"v":"r","p":3332},{"n":3344,"v":"r","p":3341},{"n":3352,"v":"r","p":3349},{"n":3360,"v":"r","p":3357},{"n":3369,"v":"r","p":3366},{"n":3380,"v":"r","p":3377},{"n":3392,"v":"r","p":3389},{"n":3401,"v":"k","p":3398},{"n":3403,"v":"k","p":3400},{"n":3414,"v":"r","p":3411},{"n":3424,"v":"k","p":3421},{"n":3435,"v":"r","p":3432},{"n":3442,"v":"r","p":3439},{"n":3449,"v":"r","p":3446},{"n":3456,"v":"r","p":3453},{"n":3460,"v":"k","p":3457},{"n":3464,"v":"r","p":3461},{"n":3469,"v":"r","p":3466},{"n":3474,"v":"r","p":3471},{"n":3478,"v":"k","p":3475},{"n":3481,"v":"r","p":3478},{"n":3487,"v":"k","p":3484},{"n":3493,"v":"r","p":3490},{"n":3502,"v":"r","p":3499},{"n":3514,"v":"r","p":3511},{"n":3527,"v":"r","p":3524},{"n":3539,"v":"r","p":3536},{"n":3551,"v":"r","p":3548},{"n":3561,"v":"k","p":3558},{"n":3567,"v":"r","p":3564},{"n":3571,"v":"r","p":3568},{"n":3572,"v":"r","p":3569},{"n":3573,"v":"r","p":3570},{"n":3574,"v":"r","p":3571},{"n":3575,"v":"k","p":3572},{"n":3576,"v":"r","p":3573},{"n":3577,"v":"r","p":3574},{"n":3578,"v":"r","p":3575},{"n":3580,"v":"r","p":3577},{"n":3582,"v":"f","p":3579},{"n":3584,"v":"r","p":3581},{"n":3592,"v":"r","p":3589},{"n":3604,"v":"r","p":3601},{"n":3617,"v":"r","p":3614},{"n":3629,"v":"r","p":3626},{"n":3642,"v":"r","p":3639},{"n":3654,"v":"r","p":3651},{"n":3678,"v":"r","p":3675},{"n":3683,"v":"r","p":3680},{"n":3687,"v":"k","p":3684},{"n":3691,"v":"f","p":3688},{"n":3696,"v":"r","p":3693},{"n":3702,"v":"r","p":3699},{"n":3708,"v":"r","p":3705},{"n":3714,"v":"r","p":3711},{"n":3719,"v":"r","p":3716},{"n":3723,"v":"r","p":3720},{"n":3729,"v":"r","p":3726},{"n":3735,"v":"r","p":3732},{"n":3741,"v":"k","p":3738},{"n":3746,"v":"r","p":3743},{"n":3751,"v":"r","p":3748},{"n":3756,"v":"r","p":3753},{"n":3763,"v":"r","p":3760},{"n":3765,"v":"r","p":3762},{"n":3772,"v":"r","p":3769},{"n":3785,"v":"r","p":3782},{"n":3790,"v":"k","p":3787},{"n":3802,"v":"k","p":3799},{"n":3818,"v":"r","p":3815},{"n":3835,"v":"r","p":3832},{"n":3848,"v":"k","p":3845},{"n":3850,"v":"r","p":3847},{"n":3855,"v":"r","p":3852},{"n":3863,"v":"k","p":3860},{"n":3871,"v":"k","p":3868},{"n":3876,"v":"r","p":3873},{"n":3880,"v":"r","p":3877},{"n":3884,"v":"r","p":3881},{"n":3892,"v":"r","p":3889},{"n":3900,"v":"k","p":3897},{"n":3907,"v":"r","p":3904},{"n":3916,"v":"k","p":3913},{"n":3920,"v":"r","p":3917},{"n":3924,"v":"r","p":3921},{"n":3928,"v":"r","p":3925},{"n":3933,"v":"r","p":3930},{"n":3939,"v":"r","p":3936},{"n":3945,"v":"r","p":3942},{"n":3951,"v":"r","p":3948},{"n":3957,"v":"r","p":3954},{"n":3966,"v":"r","p":3963},{"n":3978,"v":"r","p":3975},{"n":3989,"v":"r","p":3986},{"n":3990,"v":"f","p":3987},{"n":4001,"v":"r","p":3998},{"n":4009,"v":"r","p":4006},{"n":4013,"v":"r","p":4010},{"n":4016,"v":"r","p":4013},{"n":4017,"v":"r","p":4014},{"n":4018,"v":"r","p":4015},{"n":4019,"v":"k","p":4016},{"n":4020,"v":"r","p":4017},{"n":4021,"v":"r","p":4018},{"n":4023,"v":"k","p":4020},{"n":4087,"v":"r","p":4084},{"n":4094,"v":"r","p":4091},{"n":4101,"v":"r","p":4098},{"n":4107,"v":"r","p":4104},{"n":4121,"v":"r","p":4118},{"n":4129,"v":"k","p":4126},{"n":4136,"v":"r","p":4133},{"n":4142,"v":"r","p":4139},{"n":4158,"v":"r","p":4155},{"n":4165,"v":"r","p":4162},{"n":4171,"v":"r","p":4168},{"n":4177,"v":"r","p":4174},{"n":4183,"v":"r","p":4180},{"n":4189,"v":"r","p":4186},{"n":4195,"v":"r","p":4192},{"n":4202,"v":"r","p":4199},{"n":4209,"v":"r","p":4206},{"n":4215,"v":"r","p":4212},{"n":4219,"v":"r","p":4216},{"n":4227,"v":"r","p":4224},{"n":4237,"v":"k","p":4234},{"n":4246,"v":"r","p":4243},{"n":4253,"v":"r","p":4250},{"n":4259,"v":"r","p":4256},{"n":4268,"v":"r","p":4265},{"n":4278,"v":"r","p":4275},{"n":4288,"v":"r","p":4285},{"n":4289,"v":"r","p":4286},{"n":4290,"v":"r","p":4287},{"n":4291,"v":"r","p":4288},{"n":4292,"v":"f","p":4289},{"n":4293,"v":"r","p":4290},{"n":4294,"v":"r","p":4291},{"n":4295,"v":"r","p":4292},{"n":4296,"v":"k","p":4293},{"n":4297,"v":"r","p":4294},{"n":4298,"v":"r","p":4295},{"n":4314,"v":"r","p":4311},{"n":4323,"v":"r","p":4320},{"n":4331,"v":"r","p":4328},{"n":4361,"v":"r","p":4358},{"n":4373,"v":"r","p":4370},{"n":4385,"v":"r","p":4382},{"n":4397,"v":"r","p":4394},{"n":4411,"v":"r","p":4408},{"n":4424,"v":"r","p":4421},{"n":4437,"v":"k","p":4434},{"n":4451,"v":"r","p":4448},{"n":4483,"v":"r","p":4480},{"n":4490,"v":"r","p":4487},{"n":4496,"v":"r","p":4493},{"n":4504,"v":"r","p":4501},{"n":4514,"v":"r","p":4511},{"n":4523,"v":"r","p":4520},{"n":4530,"v":"f","p":4527},{"n":4534,"v":"r","p":4531},{"n":4540,"v":"k","p":4537},{"n":4548,"v":"r","p":4545},{"n":4556,"v":"r","p":4553},{"n":4563,"v":"r","p":4560},{"n":4583,"v":"r","p":4580},{"n":4603,"v":"r","p":4600},{"n":4620,"v":"r","p":4617},{"n":4633,"v":"r","p":4630},{"n":4645,"v":"r","p":4642},{"n":4656,"v":"k","p":4653},{"n":4665,"v":"r","p":4662},{"n":4674,"v":"r","p":4671},{"n":4690,"v":"r","p":4687},{"n":4706,"v":"r","p":4703},{"n":4716,"v":"r","p":4713},{"n":4726,"v":"r","p":4723},{"n":4741,"v":"r","p":4738},{"n":4759,"v":"r","p":4756},{"n":4777,"v":"k","p":4774},{"n":4795,"v":"r","p":4792},{"n":4814,"v":"r","p":4811},{"n":4834,"v":"k","p":4831},{"n":4854,"v":"r","p":4851},{"n":4874,"v":"r","p":4871},{"n":4894,"v":"r","p":4891},{"n":4908,"v":"k","p":4905},{"n":4912,"v":"r","p":4909},{"n":4913,"v":"r","p":4910},{"n":4914,"v":"r","p":4911},{"n":4915,"v":"r","p":4912},{"n":4916,"v":"r","p":4913},{"n":4917,"v":"k","p":4914},{"n":4918,"v":"r","p":4915},{"n":4922,"v":"r","p":4919},{"n":4930,"v":"r","p":4927},{"n":4938,"v":"r","p":4935},{"n":4955,"v":"k","p":4952},{"n":4964,"v":"r","p":4961},{"n":4973,"v":"r","p":4970},{"n":4987,"v":"r","p":4984},{"n":5001,"v":"r","p":4998},{"n":5012,"v":"r","p":5009},{"n":5015,"v":"k","p":5012},{"n":5023,"v":"r","p":5020},{"n":5034,"v":"r","p":5031},{"n":5044,"v":"r","p":5041},{"n":5054,"v":"k","p":5051},{"n":5064,"v":"r","p":5061},{"n":5075,"v":"r","p":5072},{"n":5087,"v":"r","p":5084},{"n":5099,"v":"r","p":5096},{"n":5110,"v":"k","p":5107},{"n":5123,"v":"r","p":5120},{"n":5141,"v":"r","p":5138},{"n":5152,"v":"r","p":5149},{"n":5164,"v":"r","p":5161},{"n":5176,"v":"k","p":5173},{"n":5186,"v":"r","p":5183},{"n":5197,"v":"f","p":5194},{"n":5207,"v":"r","p":5204},{"n":5219,"v":"r","p":5216},{"n":5232,"v":"r","p":5229},{"n":5244,"v":"k","p":5241},{"n":5256,"v":"r","p":5253}]</script>
+<script id="sets" type="application/json">[{"start":8,"len":2},{"start":12,"len":2},{"start":21,"len":2},{"start":27,"len":2},{"start":31,"len":2},{"start":64,"len":2},{"start":97,"len":4},{"start":101,"len":2},{"start":113,"len":2},{"start":125,"len":2},{"start":130,"len":2},{"start":140,"len":8},{"start":154,"len":2},{"start":165,"len":2},{"start":179,"len":3},{"start":203,"len":5},{"start":222,"len":2},{"start":224,"len":3},{"start":228,"len":2},{"start":242,"len":2},{"start":253,"len":2},{"start":256,"len":3},{"start":260,"len":3},{"start":263,"len":3},{"start":276,"len":3},{"start":280,"len":2},{"start":294,"len":2},{"start":307,"len":8},{"start":315,"len":2},{"start":325,"len":2},{"start":335,"len":2},{"start":342,"len":3},{"start":350,"len":2},{"start":352,"len":2},{"start":361,"len":2},{"start":372,"len":6},{"start":378,"len":2},{"start":382,"len":2},{"start":393,"len":2},{"start":402,"len":2},{"start":412,"len":2},{"start":425,"len":8},{"start":433,"len":3},{"start":438,"len":2},{"start":453,"len":2},{"start":466,"len":3},{"start":486,"len":4},{"start":491,"len":2},{"start":493,"len":6},{"start":509,"len":2},{"start":552,"len":2},{"start":554,"len":4},{"start":562,"len":2},{"start":569,"len":2},{"start":572,"len":8},{"start":582,"len":10}]</script>
+<script id="bursts" type="application/json">[{"start":140,"len":8},{"start":157,"len":6},{"start":307,"len":8},{"start":372,"len":6},{"start":425,"len":8},{"start":494,"len":5},{"start":526,"len":11},{"start":582,"len":7}]</script>
 </main>
 <footer class="foot wrap"><b>CULL</b><nav aria-label="Footer"><a href="./install.html">Install</a><a href="./formats.html">Formats</a><a href="./pro.html">Pro</a><a href="./changelog.html">What's new</a><a href="./support.html">Support</a><a href="./privacy.html">Privacy</a><a href="./terms.html">License terms</a><a href="./terms-of-sale.html">Terms of sale</a><a href="./press.html">Press kit</a></nav><span>© 2026 Oliver Søgaard-Andersen · cull.photography</span></footer>
-<script src="./assets/hero.js?v=fde0457052"></script>
-<script src="./assets/home.js?v=466f3cf86c"></script>
+<script src="./assets/hero.js?v=e44da8918a"></script>
+<script src="./assets/home.js?v=c9c8ef08f5"></script>
 </body>
 </html>

diff --git a/docs/changelog.html b/docs/changelog.html
@@ -8,8 +8,8 @@
 <!-- Not released: removed on launch day. -->
 <meta name="robots" content="noindex">
 <link rel="icon" href="./assets/icon-64.png">
-<link rel="stylesheet" href="./assets/site.css?v=fab6df1256">
-<link rel="stylesheet" href="./assets/pages.css?v=95f49a334f">
+<link rel="stylesheet" href="./assets/site.css?v=56a1be6058">
+<link rel="stylesheet" href="./assets/pages.css?v=bed821447e">
 </head>
 <body class="changelog">
 <nav class="nav" aria-label="Site"><div class="pill glass"><a class="brand" href="./">CULL</a><a class="link" href="./formats.html">Formats</a><a class="link" href="./changelog.html" aria-current="page">What's new</a><a class="link" href="./support.html">Support</a><a class="link dl" href="./install.html">Download</a><a class="pro" href="./pro.html">Pro</a></div></nav>

diff --git a/docs/formats.html b/docs/formats.html
@@ -8,8 +8,8 @@
 <!-- Not released: removed on launch day. -->
 <meta name="robots" content="noindex">
 <link rel="icon" href="./assets/icon-64.png">
-<link rel="stylesheet" href="./assets/site.css?v=fab6df1256">
-<link rel="stylesheet" href="./assets/pages.css?v=95f49a334f">
+<link rel="stylesheet" href="./assets/site.css?v=56a1be6058">
+<link rel="stylesheet" href="./assets/pages.css?v=bed821447e">
 </head>
 <body>
 <nav class="nav" aria-label="Site"><div class="pill glass"><a class="brand" href="./">CULL</a><a class="link" href="./formats.html" aria-current="page">Formats</a><a class="link" href="./changelog.html">What's new</a><a class="link" href="./support.html">Support</a><a class="link dl" href="./install.html">Download</a><a class="pro" href="./pro.html">Pro</a></div></nav>

diff --git a/docs/install.html b/docs/install.html
@@ -8,8 +8,8 @@
 <!-- Not released: removed on launch day. -->
 <meta name="robots" content="noindex">
 <link rel="icon" href="./assets/icon-64.png">
-<link rel="stylesheet" href="./assets/site.css?v=fab6df1256">
-<link rel="stylesheet" href="./assets/pages.css?v=95f49a334f">
+<link rel="stylesheet" href="./assets/site.css?v=56a1be6058">
+<link rel="stylesheet" href="./assets/pages.css?v=bed821447e">
 </head>
 <body>
 <nav class="nav" aria-label="Site"><div class="pill glass"><a class="brand" href="./">CULL</a><a class="link" href="./formats.html">Formats</a><a class="link" href="./changelog.html">What's new</a><a class="link" href="./support.html">Support</a><a class="link dl" href="./install.html" aria-current="page">Download</a><a class="pro" href="./pro.html">Pro</a></div></nav>

diff --git a/docs/support.html b/docs/support.html
@@ -8,8 +8,8 @@
 <!-- Not released: removed on launch day. -->
 <meta name="robots" content="noindex">
 <link rel="icon" href="./assets/icon-64.png">
-<link rel="stylesheet" href="./assets/site.css?v=fab6df1256">
-<link rel="stylesheet" href="./assets/pages.css?v=95f49a334f">
+<link rel="stylesheet" href="./assets/site.css?v=56a1be6058">
+<link rel="stylesheet" href="./assets/pages.css?v=bed821447e">
 </head>
 <body>
 <nav class="nav" aria-label="Site"><div class="pill glass"><a class="brand" href="./">CULL</a><a class="link" href="./formats.html">Formats</a><a class="link" href="./changelog.html">What's new</a><a class="link" href="./support.html" aria-current="page">Support</a><a class="link dl" href="./install.html">Download</a><a class="pro" href="./pro.html">Pro</a></div></nav>

diff --git a/docs/press.html b/docs/press.html
@@ -8,8 +8,8 @@
 <!-- Not released: removed on launch day. -->
 <meta name="robots" content="noindex">
 <link rel="icon" href="./assets/icon-64.png">
-<link rel="stylesheet" href="./assets/site.css?v=fab6df1256">
-<link rel="stylesheet" href="./assets/pages.css?v=95f49a334f">
+<link rel="stylesheet" href="./assets/site.css?v=56a1be6058">
+<link rel="stylesheet" href="./assets/pages.css?v=bed821447e">
 </head>
 <body>
 <nav class="nav" aria-label="Site"><div class="pill glass"><a class="brand" href="./">CULL</a><a class="link" href="./formats.html">Formats</a><a class="link" href="./changelog.html">What's new</a><a class="link" href="./support.html">Support</a><a class="link dl" href="./install.html">Download</a><a class="pro" href="./pro.html">Pro</a></div></nav>

diff --git a/docs/privacy.html b/docs/privacy.html
@@ -8,8 +8,8 @@
 <!-- Not released: removed on launch day. -->
 <meta name="robots" content="noindex">
 <link rel="icon" href="./assets/icon-64.png">
-<link rel="stylesheet" href="./assets/site.css?v=fab6df1256">
-<link rel="stylesheet" href="./assets/pages.css?v=95f49a334f">
+<link rel="stylesheet" href="./assets/site.css?v=56a1be6058">
+<link rel="stylesheet" href="./assets/pages.css?v=bed821447e">
 </head>
 <body>
 <nav class="nav" aria-label="Site"><div class="pill glass"><a class="brand" href="./">CULL</a><a class="link" href="./formats.html">Formats</a><a class="link" href="./changelog.html">What's new</a><a class="link" href="./support.html">Support</a><a class="link dl" href="./install.html">Download</a><a class="pro" href="./pro.html">Pro</a></div></nav>

diff --git a/docs/terms-of-sale.html b/docs/terms-of-sale.html
@@ -8,8 +8,8 @@
 <!-- Not released: removed on launch day. -->
 <meta name="robots" content="noindex">
 <link rel="icon" href="./assets/icon-64.png">
-<link rel="stylesheet" href="./assets/site.css?v=fab6df1256">
-<link rel="stylesheet" href="./assets/pages.css?v=95f49a334f">
+<link rel="stylesheet" href="./assets/site.css?v=56a1be6058">
+<link rel="stylesheet" href="./assets/pages.css?v=bed821447e">
 </head>
 <body>
 <nav class="nav" aria-label="Site"><div class="pill glass"><a class="brand" href="./">CULL</a><a class="link" href="./formats.html">Formats</a><a class="link" href="./changelog.html">What's new</a><a class="link" href="./support.html">Support</a><a class="link dl" href="./install.html">Download</a><a class="pro" href="./pro.html">Pro</a></div></nav>

diff --git a/docs/terms.html b/docs/terms.html
@@ -8,8 +8,8 @@
 <!-- Not released: removed on launch day. -->
 <meta name="robots" content="noindex">
 <link rel="icon" href="./assets/icon-64.png">
-<link rel="stylesheet" href="./assets/site.css?v=fab6df1256">
-<link rel="stylesheet" href="./assets/pages.css?v=95f49a334f">
+<link rel="stylesheet" href="./assets/site.css?v=56a1be6058">
+<link rel="stylesheet" href="./assets/pages.css?v=bed821447e">
 </head>
 <body>
 <nav class="nav" aria-label="Site"><div class="pill glass"><a class="brand" href="./">CULL</a><a class="link" href="./formats.html">Formats</a><a class="link" href="./changelog.html">What's new</a><a class="link" href="./support.html">Support</a><a class="link dl" href="./install.html">Download</a><a class="pro" href="./pro.html">Pro</a></div></nav>

diff --git a/docs/thanks.html b/docs/thanks.html
@@ -8,8 +8,8 @@
 <!-- Not released: removed on launch day. -->
 <meta name="robots" content="noindex">
 <link rel="icon" href="./assets/icon-64.png">
-<link rel="stylesheet" href="./assets/site.css?v=fab6df1256">
-<link rel="stylesheet" href="./assets/pages.css?v=95f49a334f">
+<link rel="stylesheet" href="./assets/site.css?v=56a1be6058">
+<link rel="stylesheet" href="./assets/pages.css?v=bed821447e">
 <meta name="referrer" content="no-referrer">
 <meta http-equiv="Content-Security-Policy" content="default-src 'none'; script-src 'self'; style-src 'self'; font-src 'self'; img-src 'self'; connect-src https://api.cull.photography; base-uri 'none'; form-action 'none'">
 </head>

diff --git a/docs/key.html b/docs/key.html
@@ -8,8 +8,8 @@
 <!-- Not released: removed on launch day. -->
 <meta name="robots" content="noindex">
 <link rel="icon" href="./assets/icon-64.png">
-<link rel="stylesheet" href="./assets/site.css?v=fab6df1256">
-<link rel="stylesheet" href="./assets/pages.css?v=95f49a334f">
+<link rel="stylesheet" href="./assets/site.css?v=56a1be6058">
+<link rel="stylesheet" href="./assets/pages.css?v=bed821447e">
 </head>
 <body>
 <div class="teststrip" role="note">Test mode · no real payment is taken on this page</div>

diff --git a/docs/pro.html b/docs/pro.html
@@ -8,8 +8,8 @@
 <!-- Not released: removed on launch day. -->
 <meta name="robots" content="noindex">
 <link rel="icon" href="./assets/icon-64.png">
-<link rel="stylesheet" href="./assets/site.css?v=fab6df1256">
-<link rel="stylesheet" href="./assets/pages.css?v=95f49a334f">
+<link rel="stylesheet" href="./assets/site.css?v=56a1be6058">
+<link rel="stylesheet" href="./assets/pages.css?v=bed821447e">
 </head>
 <body>
 <div class="teststrip" role="note">Test mode · no real payment is taken on this page</div>
